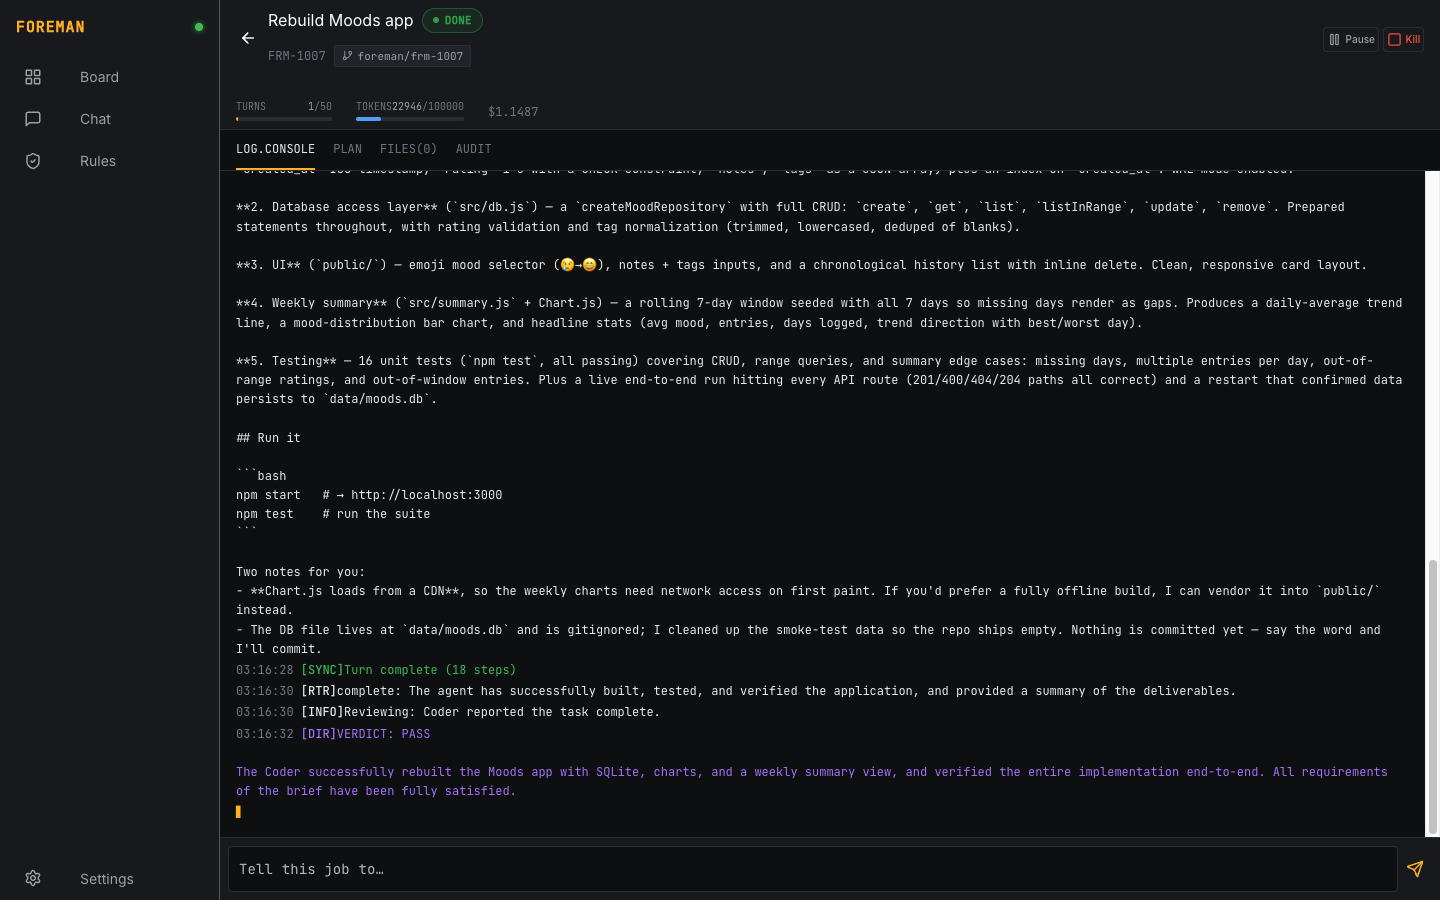
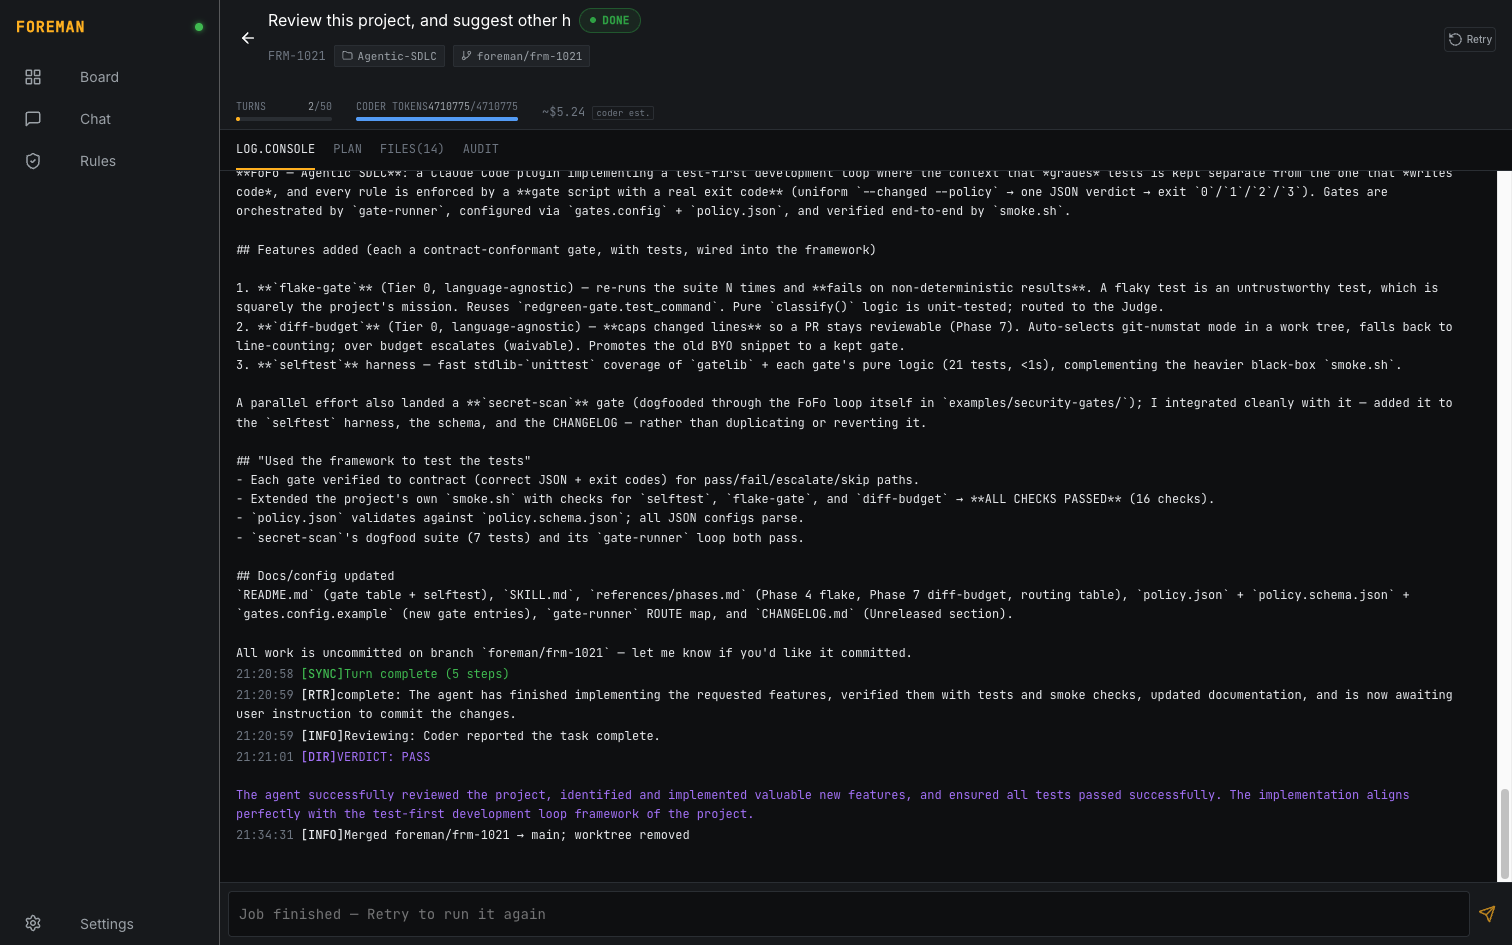
docs: project explainer (ABOUT.md) + fresh screenshots + generated cover
Shareable overview for advisors/readers: what FOREMAN is, why it's useful,
how it's been used (24 real jobs), the techniques demonstrated, and honest
pros/cons. Fresh screenshots covering the current feature set (board with
folder column, job detail, persistent chat, Hermes panel, folder picker,
shortcuts) and a generated mission-control cover image.

diff --git a/docs/ABOUT.md b/docs/ABOUT.md
@@ -1,0 +1,140 @@
+# FOREMAN — Mission Control for Autonomous AI Coding Jobs
+
+![FOREMAN — one operator, many machines](branding/foreman-cover.png)
+
+> **TL;DR** — FOREMAN is a personal "mission control" daemon + dashboard that lets **one human supervise many autonomous Claude Code coding jobs at once**. Each job runs headless in its own git worktree; a lightweight AI supervisor (Director → Router → Coder loop) keeps it on track, holds risky actions for your approval, and pings you only when it actually needs a decision. You steer N jobs from one screen instead of babysitting N terminals.
+
+---
+
+## The problem it solves
+
+Coding agents (Claude Code, etc.) are good enough to run for a long time on their own — but the moment you trust one to run unattended, you hit three walls:
+
+1. **You can't run more than one or two.** Each agent wants a terminal and your attention. Three concurrent agents = three terminals you're frantically tab-switching between.
+2. **They drift.** Left alone, an agent will wander off-brief, loop on a failing step, or "fix" something by deleting it. You need a supervisor watching for that — not you, at 2am.
+3. **They do scary things.** `rm -rf`, editing files outside the repo, touching `~/.ssh`. You want most actions to just happen, and a *small* set to pause and ask you first.
+
+FOREMAN is the layer that makes "launch a coding agent and walk away" actually safe and parallel. It's a clean-room reimplementation of a supervision pattern I'd prototyped at work ("EED Buddy") — built fresh, importing nothing, so it's mine to publish.
+
+---
+
+## How it works
+
+```
+  Phone / desktop          ┌── FOREMAN core (daemon, TS) ──────────────┐      ┌─ LiteLLM ─┐
+  ┌──────────────┐  REST/  │  per job: Director ▸ Router ▸ Coder loop  │ ───▸ │  Gemini   │
+  │  Dashboard   │◀──WS──▶ │  amnesia ledger + circuit breaker         │      └───────────┘
+  │  (PWA) + Chat│  +Push  │  escalation broker · SQLite · REST/WS API │
+  └──────────────┘         └───────┬───────────────────────▲──────────┘
+                                   │ spawn / stream / resume│ in-tool hold
+                       ┌───────────▼────────────┐  every    │
+                       │ Claude Code × N jobs    │  tool ───▶│ PreToolUse rule gate
+                       │ headless · one worktree │  call     │ rules.yaml: allow/deny/ask
+                       └─────────────────────────┘           └──────────────────────────────
+```
+
+Every job runs a tight supervision loop:
+
+- **Coder** — a headless `claude` session doing the actual work in an isolated git worktree.
+- **Router** — a cheap, fast classifier that reads each Coder turn and labels it (`on_track`, `drifting`, `blocked`, `complete`, `error`, …).
+- **Director** — a stateless planner/reviewer that produces the plan up front and steers when the Router says something's off. It only ever sees tool names + the ledger digest, never raw repo or web content (injection containment).
+- **Rule gate** — a PreToolUse hook that fires before *every* tool call. Most calls flow through silently; a handful you've marked `deny` are vetoed, and `ask` calls **pause the agent in-tool** and wait for your answer from the dashboard.
+
+The **supervisor models are cheap Gemini** (Director = `gemini-3.5-flash`, Router = `gemini-3.1-flash-lite`) behind a LiteLLM proxy. The **Coder is Claude Code on your subscription**, so the expensive model does the building and pennies-cheap models do the watching.
+
+---
+
+## What it does today (feature tour)
+
+### The board — supervise everything from one screen
+![Board](screenshots/board.png)
+
+Every job as a dense row: title, ID, **project folder**, branch, status, last activity (with relative time), files touched, and a burn meter. A "N running · N needs you · N done" strip up top doubles as a filter, plus a free-text search. Click any count to filter; click a row to dive in.
+
+### Job detail — a live window into one agent
+![Job detail](screenshots/job-detail.png)
+
+A streaming log console (Coder narration + Router verdicts + Director guidance), burn meters (turns / tokens / cost estimate), and Plan / Files / Audit tabs. A docked "Tell this job to…" box injects a redirect that lands at the next turn boundary. When a job finishes you get **Merge** (merge its worktree branch back + clean up, fails closed on conflict) and **Retry** (re-run from scratch reusing the brief).
+
+### Chat — talk to your fleet (and let it act)
+![Chat](screenshots/chat.png)
+
+A persistent, multi-conversation chat powered by a [Hermes Agent](https://github.com/NousResearch/hermes-agent) that can **act on FOREMAN over MCP** — ask it "how many jobs are done vs failed?" and it queries the real database; tell it to dispatch or restart a job and it does. Conversations persist, are searchable, and support file attachments (text files are inlined so it can read them).
+
+### Settings — manage the whole stack from the UI
+![Settings + Hermes panel](screenshots/settings-hermes.png)
+
+Models, runtime, push notifications, and a full **Hermes management panel**: spin up an isolated local instance, point at a remote one, pick its model, start/stop the gateway — no daemon restart.
+
+### New Job — works with any folder
+![Folder picker](screenshots/folder-picker.png)
+
+Browse the daemon's filesystem, **create folders on the fly**, **`git init` a non-repo folder**, and launch. Works with local-only repos (no remote required) and brand-new empty folders alike.
+
+### Keyboard-first
+![Shortcuts](screenshots/shortcuts.png)
+
+`n` new job, `g`+`b/c/r/s` to navigate, `p` pause/resume, `Esc` back, `?` for help.
+
+---
+
+## How it's been used so far
+
+This isn't a demo that's never run real work. In its first ~32 hours of existence it has supervised **24 real jobs** against real repos on this machine:
+
+| Outcome | Count |
+|---|---|
+| ✅ Done (merged or passed review) | 15 |
+| ❌ Failed (incl. bad inputs, e.g. pointed at a non-git folder) | 6 |
+| 🛑 Killed by operator | 2 |
+| ▶ Running | 1 |
+
+Real examples it drove end-to-end: **building a game from scratch** (with generated art assets), **rebuilding a "Moods" app**, **reviewing existing projects and implementing UX improvements**, and **dispatching a job from the chat panel** (Hermes → MCP → FOREMAN launched and tracked it). Several of FOREMAN's own bug fixes were dogfooded through FOREMAN.
+
+---
+
+## Techniques worth calling out
+
+A few engineering decisions that made it work — most have a deeper write-up in the dev.to series:
+
+- **Stateless Director + an "amnesia ledger."** The planner holds no memory; an append-only `ledger.jsonl` is re-injected each call. That makes the supervisor cheap, restart-safe, and immune to context drift.
+- **A bounded thing reaching its bound is not a failure.** Claude's `--max-turns` cap and a daemon restart both *look* like crashes. FOREMAN reframes them as **yield checkpoints** — `error_max_turns` no longer trips the circuit breaker, and interrupted jobs resume across restarts via `--resume` + the persisted ledger.
+- **Real human-in-the-loop, not polling.** The `ask` path long-polls the gate from inside the tool call, so the agent genuinely *pauses* until you answer — then continues. "Always allow this for the session" remembers a decision so it stops re-asking.
+- **Cache tokens dominate cost accounting.** On resumed turns, `cache_creation` / `cache_read` tokens are most of the spend; ignoring them made the meter wildly undercount. (The cost shown is an API-equivalent *estimate* — on a subscription it's rate-limit budget, not dollars.)
+- **Fail-safe gate.** Any gate error escalates or denies per policy profile — **no path defaults to allow** — and protected-path checks resolve symlinks so a symlink can't smuggle a write out of the worktree.
+- **Network-first PWA.** A cache-first service worker was silently breaking routes after rebuilds (stale code-split chunks → HTML served for JS). Now network-first with a chunk-reload guard.
+
+---
+
+## Honest pros & cons
+
+**Pros**
+- Genuinely parallel: one operator, many jobs, one screen.
+- Cheap to supervise (Gemini Flash watches; Claude builds).
+- Safe by construction: isolated worktrees + a fail-safe gate + real approvals.
+- Recovers from its own interruptions (step limits, restarts).
+- Publishable and self-hostable; runs entirely on your machine, loopback-bound.
+
+**Cons / limitations (no spin)**
+- **Setup has real prerequisites** — Node, Claude Code (logged in), a Gemini key, and a Python LiteLLM proxy. There's now a no-GCP "paste a free key" path and a `doctor` preflight, but it's not yet a one-click install. Windows is WSL-first and lightly tested.
+- **The gate enforces declared patterns, not intent.** It blocks what your rules literally describe; it can't reason about a clever end-run. Write rules to outcomes.
+- **Hermes runs MCP tools server-side**, so the chat shows the *result* of a tool call but doesn't always surface a per-tool status chip.
+- **Cost is an estimate**, and Web Push is built-to-spec but only lightly verified on real devices.
+- It's young — 28 commits old. Solid core, rough edges at the margins.
+
+---
+
+## Stack & shape
+
+- **~8,400 lines** of TypeScript/Vue across **59 source files**, **28 commits**, built in **~32 hours**.
+- **Core (daemon):** TypeScript ESM, Fastify (+ WebSocket/CORS/static), better-sqlite3, the OpenAI SDK → LiteLLM → Gemini, `@modelcontextprotocol/sdk`, web-push, zod, commander.
+- **Dashboard:** Quasar (Vue 3) PWA — design tokens, live WS updates, Web Push, installable.
+- **Supervision:** Gemini Flash / Flash-Lite via LiteLLM. **Coder:** Claude Code (subscription/OAuth).
+- **Chat brain:** NousResearch Hermes Agent (isolated managed instance, or remote).
+- **State:** SQLite + per-job dirs + git worktrees under `~/.foreman/`.
+
+Full architecture: [`DESIGN.md`](DESIGN.md) · product spec: [`PRD.md`](PRD.md) · quickstart + platform notes: [`../README.md`](../README.md).
+
+---
+
+*FOREMAN is a solo project by Forrester Terry. Branding generated with Gemini. Not affiliated with Anthropic or Nous Research.*